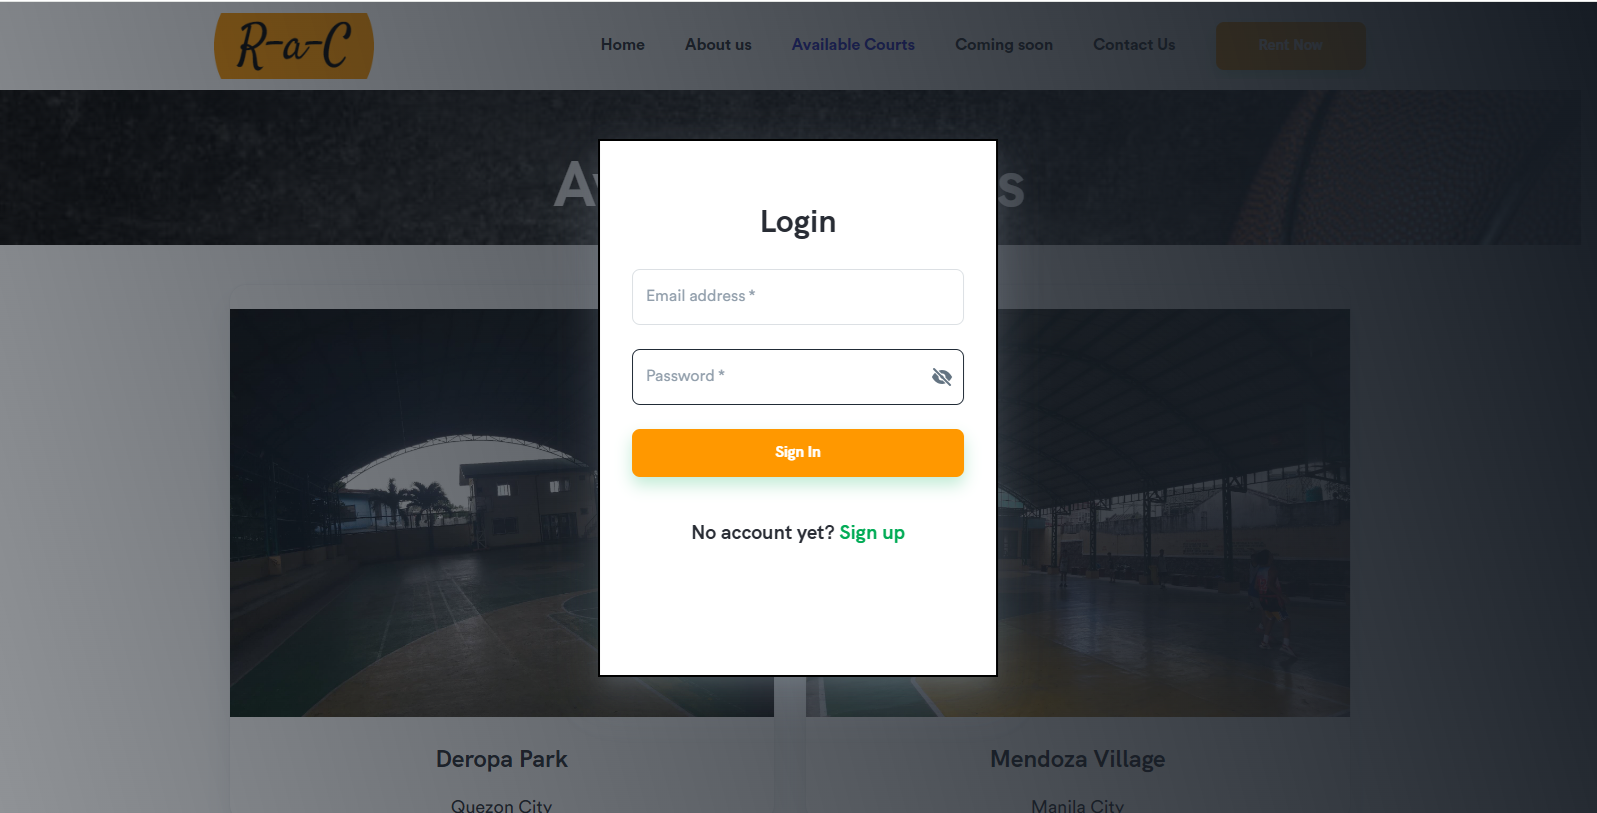
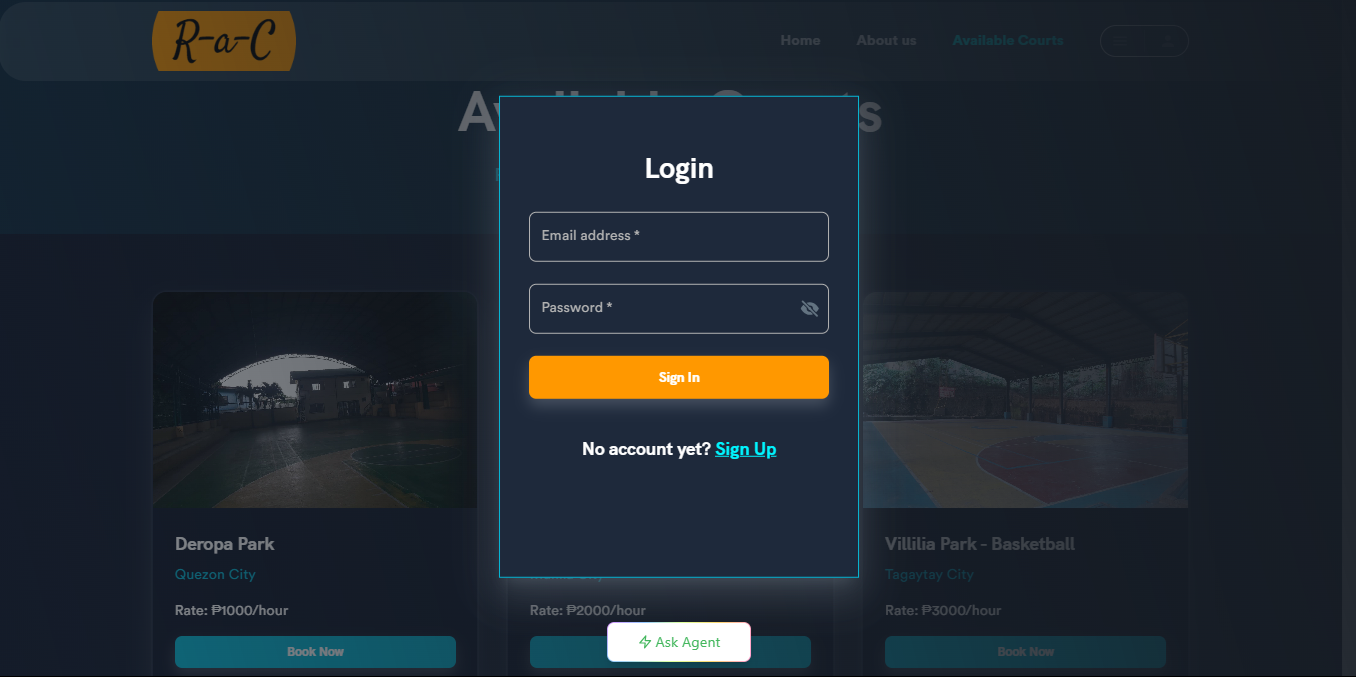
updated rentacourt pictures

diff --git a/src/components/_external-pages/jaby/Card.js b/src/components/_external-pages/jaby/Card.js
@@ -17,7 +17,7 @@ const MOCK_CAROUSELS = [
   {
     id: 3,
     image: '/static/projects/renta.png',
-    description: 'Court Rental Management System'
+    description: 'Court Rental System'
   },
   {
     id: 4,
@@ -40,14 +40,12 @@ const RootStyle = styled('div')(() => ({
 
 const CarouselImgStyle = styled('img')(({ theme }) => ({
   width: '100%',
-  height: 'auto',
+  height: '30vh',
   margin: 'auto',
-  objectFit: 'cover', // Makes sure images are fully covered and centered
+  objectFit: 'contain', // Makes sure images are fully covered and centered
   transition: theme.transitions.create('all', {
     duration: theme.transitions.duration.short
   }),
-  maxWidth: 400, // Larger size for better visibility
-  maxHeight: 250,
   [theme.breakpoints.down('sm')]: {
     maxWidth: 250
   }
@@ -72,7 +70,9 @@ function CarouselItem({ item }) {
         width:{xs:'90%', md:'100%'},
         textAlign: 'center',
         boxShadow: 3, // Add shadow for visual separation
-        backgroundColor: '#0f0f0f'
+        backgroundColor: '#222024',
+        // maxWidth: 1000, // Larger size for better visibility
+        // maxHeight: 'auto',
         
       }}
     >

diff --git a/src/components/_external-pages/landing/LandingProject1.js b/src/components/_external-pages/landing/LandingProject1.js
@@ -89,7 +89,7 @@ export default function ProductShowcase() {
               POS System
             </Typography>
             <Typography variant="h6" sx={{ fontWeight: 400, width: '90%' }}>
-              I developed a simple point-of-sale system for my family's small meat shop. 
+              I developed a simple point-of-sale system for my local client, a small meat shop. 
               This system is designed exclusively for issuing 'not official receipts' 
               and maintaining inventory records. 
               Please note that it is not registered with the Bureau of Internal Revenue (BIR).
@@ -102,9 +102,6 @@ export default function ProductShowcase() {
                 onClick={handleOpen} // Open modal on click
               >
                 Learn More
-              </Button>
-              <Button variant="contained" color="secondary">
-                Shop Now
               </Button>
             </Box>
           </Grid>

diff --git a/src/components/_external-pages/landing/LandingProject2.js b/src/components/_external-pages/landing/LandingProject2.js
@@ -19,10 +19,10 @@ const fadeInRight = {
 };
 
 const images = [
-  '/static/projects/renta.png',
-  '/static/projects/renta2.png',
+  '/static/projects/rentacourt1.png',
+  '/static/projects/rentacourt2.png',
   '/static/projects/renta3.png',
-  '/static/projects/renta1.png',
+  '/static/projects/renta4.png',
 ];
 
 const RootStyle = styled('div')({
